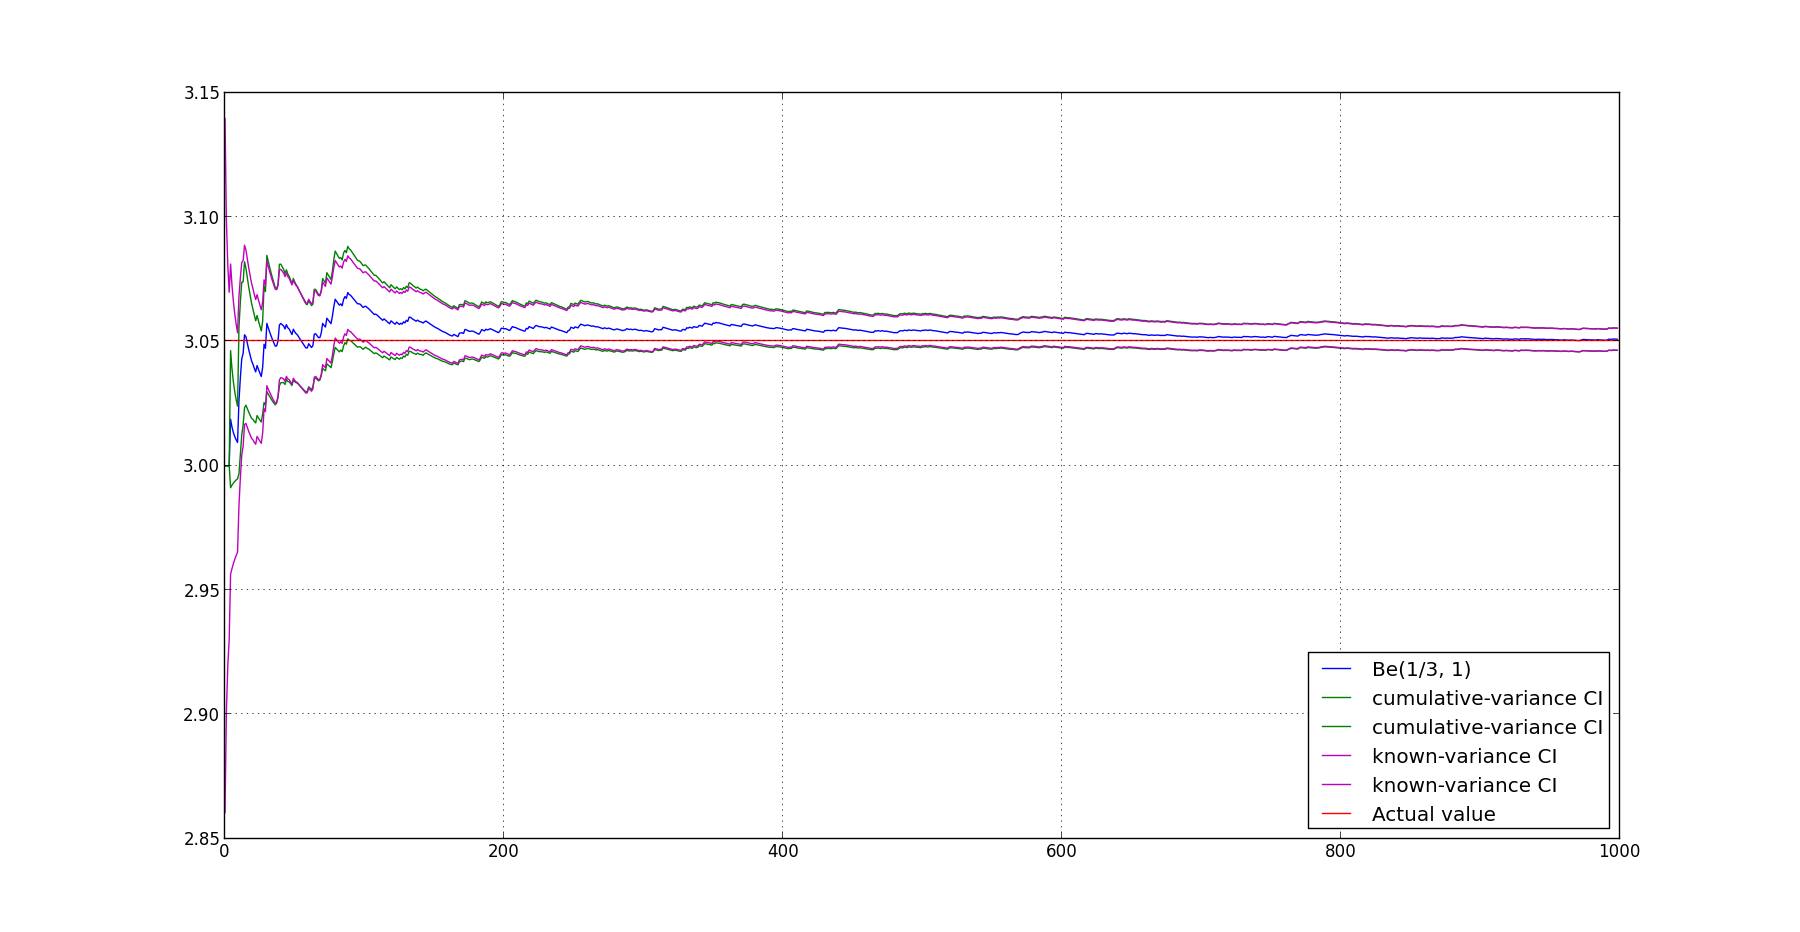
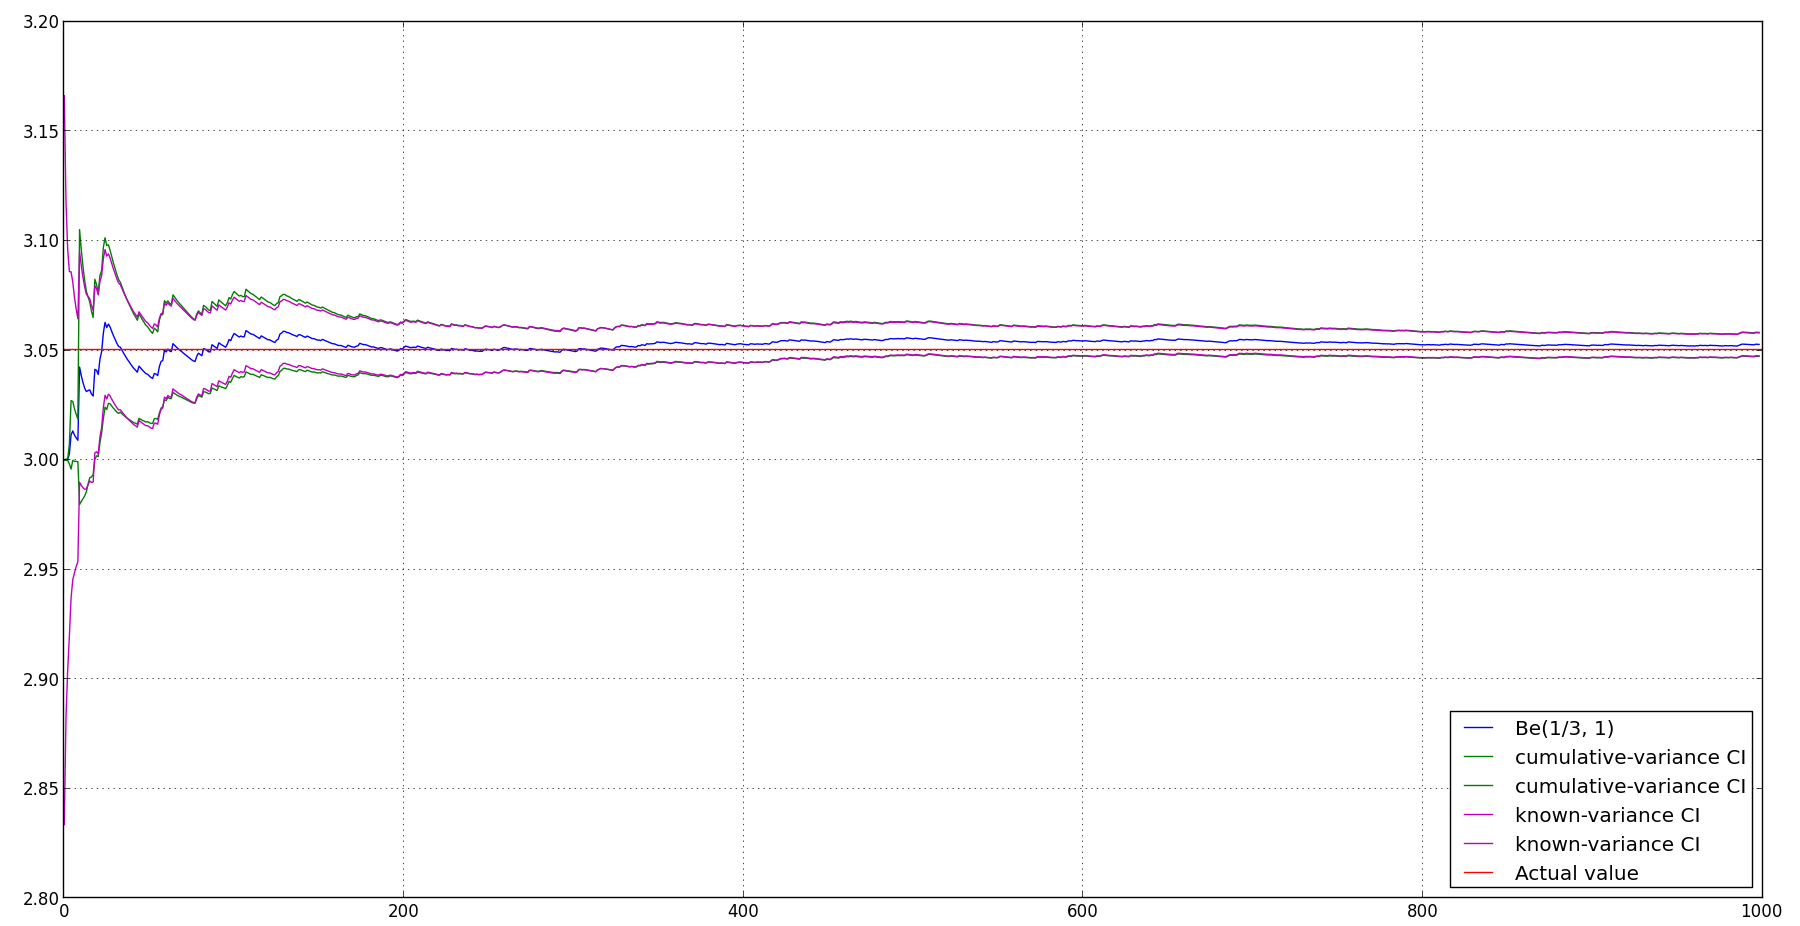
Stat CI

diff --git a/Stat/ConfidenceInterval/task2.py b/Stat/ConfidenceInterval/task2.py
@@ -1,0 +1,64 @@
+#!/usr/local/bin/python
+# coding=utf-8
+
+from scipy.stats import binom, beta, norm
+import numpy as np
+
+# #--------- SETUP
+M = 1000
+N = 10 ** np.arange(1, 5)
+alpha = 0.05
+z = norm.ppf(1 - 0.5 * alpha)
+#---------- END SETUP
+
+def clopper_pearson(x, n):
+    right = beta.ppf(1 - alpha / 2, x + 1, n - x)
+    left = beta.ppf(alpha / 2, x, n - x + 1)
+    return right - left, (left, right)
+
+
+def arcsine_transformation(x, n):
+    p = (x + 0.0) / n
+    left = np.sin(np.arcsin(np.sqrt(p)) - z / (2 * np.sqrt(n))) ** 2
+    right = np.sin(np.arcsin(np.sqrt(p)) + z / (2 * np.sqrt(n))) ** 2
+    return right - left, (left, right)
+
+
+def wilson(x, n):
+    a = 1 / (1 + 1 / n * z ** 2)
+    p = (x + 0.0) / n
+    q = z * np.sqrt(p * (1 - p) / n + z ** 2 / (4 * n ** 2))
+    left = a * (p + z ** 2 / (2 * n) - q)
+    right = a * (p + z ** 2 / (2 * n) + q)
+    return right - left, (left, right)
+
+
+def normal_approximation(x, n):
+    p = (x + 0.0) / n
+    right = p + np.sqrt(p * (1 - p) / n)
+    left = p - np.sqrt(p * (1 - p) / n)
+    return right - left, (left, right)
+
+
+def solve(n, p):
+    res = np.zeros((4, M))
+    emp = np.zeros((4, M))
+    for k, x in enumerate(binom.rvs(n, p, size=M).tolist()):
+        cp = clopper_pearson(x, n)
+        at = arcsine_transformation(x, n)
+        wl = wilson(x, n)
+        nr = normal_approximation(x, n)
+
+        res[0][k], emp[0][k] = cp[0], cp[1][0] < p < cp[1][1]
+        res[1][k], emp[1][k] = at[0], at[1][0] < p < at[1][1]
+        res[2][k], emp[2][k] = wl[0], wl[1][0] < p < wl[1][1]
+        res[3][k], emp[3][k] = nr[0], nr[1][0] < p < nr[1][1]
+
+    print np.mean(res, axis=1), np.var(res, axis=1), np.mean(emp, axis=1)
+
+
+if __name__ == "__main__":
+    for p in [0.5, 0.75, 0.99]:
+        print p
+        for n in N:
+            solve(n, p)

diff --git a/Stat/ConfidenceInterval/task1.py b/Stat/ConfidenceInterval/task1.py
@@ -9,8 +9,8 @@ from scipy.stats import beta, norm
 # #--------- SETUP
 f = lambda x: np.sin(x) ** (-2.0 / 3)  # подынтегральная функция
 ACTUAL_VALUE = quad(f, 0, 1)[0]  # реальное значение интеграла
-N = 10 ** 3  # число оценок
-lDataStrip = 0  # какую часть усекать чтобы избежать разлетания графика
+N = 10 ** 5  # число оценок
+lDataStrip = 5  # какую часть усекать чтобы избежать разлетания графика
 rDataStrip = 0
 xPlot = list(range(N))[0 if lDataStrip == 0 else N / lDataStrip:-1 if rDataStrip == 0 else N / rDataStrip]
 
@@ -22,7 +22,7 @@ var1 = quad(lambda x: f(x) ** 2 / pdf1(x), 0, 1)[0] - ACTUAL_VALUE ** 2
 # Реальная дисперсия оценки Be(1/2,1/2)
 pdf2 = lambda x: beta.pdf(x, 0.5, 0.5)
 var2 = quad(lambda x: f(x) ** 2 / pdf2(x), 0, 1)[0] - ACTUAL_VALUE ** 2
-xGamma = norm.ppf(0.95)
+xGamma = norm.ppf(0.975)
 #---------- END SETUP
 
 def generate_samples():
@@ -96,7 +96,7 @@ def solve(sample, pdf, label, var):
 
 
 if __name__ == "__main__":
-    # generate_samples()
+    generate_samples()
 
     solve(sample=(np.load('rv1_sample.npy')), pdf=(np.load('rv1_pdf.npy')), label="Be(1/3, 1)", var=var1)
     # solve(sample=(np.load('rv2_sample.npy')), pdf=(np.load('rv2_pdf.npy')), label="Be(1/2, 1/2)", var=var2)
